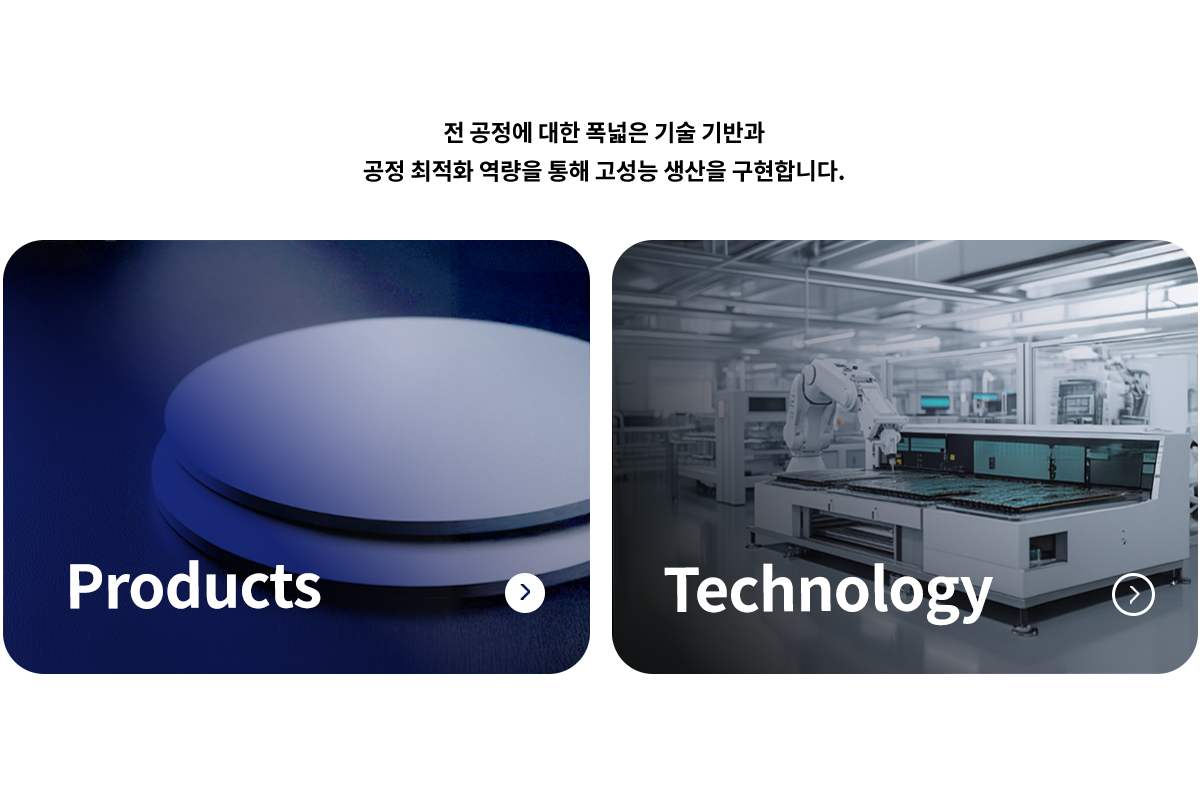
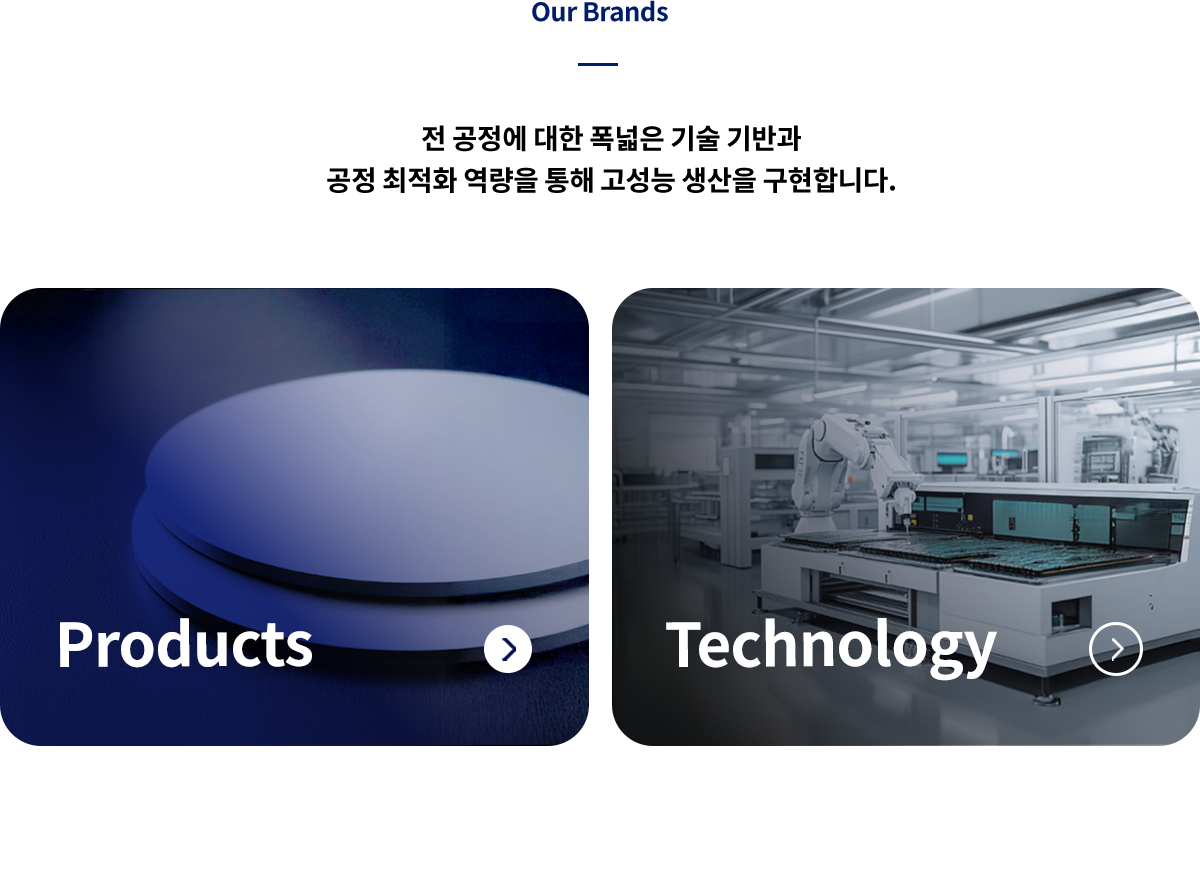
edit

diff --git a/RK/검수5차/home.html b/RK/검수5차/home.html
@@ -296,7 +296,7 @@
         </div>
       </div>
       
-      <div id="test1" style="margin: 40px 0;">
+      <div id="test1" style="margin: 60px 0 0 0;">
         <div class="inner">
             <img src="image/01.png" alt="">
         </div>
@@ -351,9 +351,15 @@
         </ul>
       </div>
       
-      <div id="test3" style="margin: 40px 0;background-color: #f1f3ff;">
+      <div id="test3" style="padding: 60px 0 0 0;background-color: #f1f3ff;">
         <div class="inner">
             <img src="image/02.png" alt="">
+        </div>
+      </div>
+      
+      <div id="test4" style="padding: 60px 0 0 0;">
+        <div class="inner">
+            <img src="image/03.png" alt="">
         </div>
       </div>
 
@@ -416,7 +422,7 @@
         </div>
       </div>
 
-      <div id="mNews" class="inner" style="padding: 70px 0;">
+      <!-- <div id="mNews" class="inner" style="padding: 70px 0;">
         <div class="main_title tc">
           <h2 class="wow fadeInUp" style="color: #001e69; font-size: 24px;">Latest Updates</h2>
           <p class="t2 wow fadeInUp" style="font-size: 32px;">론다코리아의 최신 소식을 안내드립니다.</p>
@@ -490,7 +496,7 @@
           </div>
           <div class="swiper-pagination"></div>
         </div>
-      </div>
+      </div> -->
 
       <div id="mCustomers" class="inner2" style="height: 500px; display: none;">
         <div class="main_title wow fadeInLeft">
@@ -521,7 +527,7 @@
         </ul>
       </div>
       
-      <div id="test3" style="margin: 40px 0 0 0;background:url('./image/05_배경.png')">
+      <div id="test5" style="margin: 40px 0 0 0;background:url('./image/05_배경.png')">
         <div class="inner">
             <img src="image/04.png" alt="">
         </div>

diff --git a/RK/검수5차/company.html b/RK/검수5차/company.html
@@ -419,12 +419,12 @@
         </script>
         
 
-        <section id="section1" class="section" style="margin-top: 20px; padding: 80px 0px;">
+        <section id="section1" class="section" style="margin-top: 20px; padding: 80px 0px;background: linear-gradient(to bottom, #ffffff, #f1f3ff);">
           <div class="inner" style="padding: 0 80px;">
               <img src="image/company/01.png" style="width: 100%;">
           </div>
         </section>
-        <section id="section2" class="section" style="margin-top: 20px; padding: 80px 0px;">
+        <section id="section2" class="section" style="margin-top: 20px; padding: 80px 0px; background: linear-gradient(to bottom, #ffffff, #f1f3ff);">
           <div class="inner" style="padding: 0 80px;">
               <img src="image/company/02.png" style="width: 100%;">
           </div>

diff --git a/RK/검수5차/company-회사개요.html b/RK/검수5차/company-회사개요.html
@@ -247,12 +247,12 @@
   <body>
     <main class="company-wrap">
       <!-- 상단 텍스트 타이틀 -->
-      <header class="hero-title">
+      <header class="hero-title" style="display: none;">
         <h2>론다코리아는 글로벌 반도체 산업에 특화된 전문 기업입니다</h2>
       </header>
 
       <!-- 회사개요 + 핵심부품 -->
-      <div class="info-grid">
+      <div class="info-grid" style="display: none;">
         <section class="info-card">
           <h3>Company Overview</h3>
           <dl class="meta">
